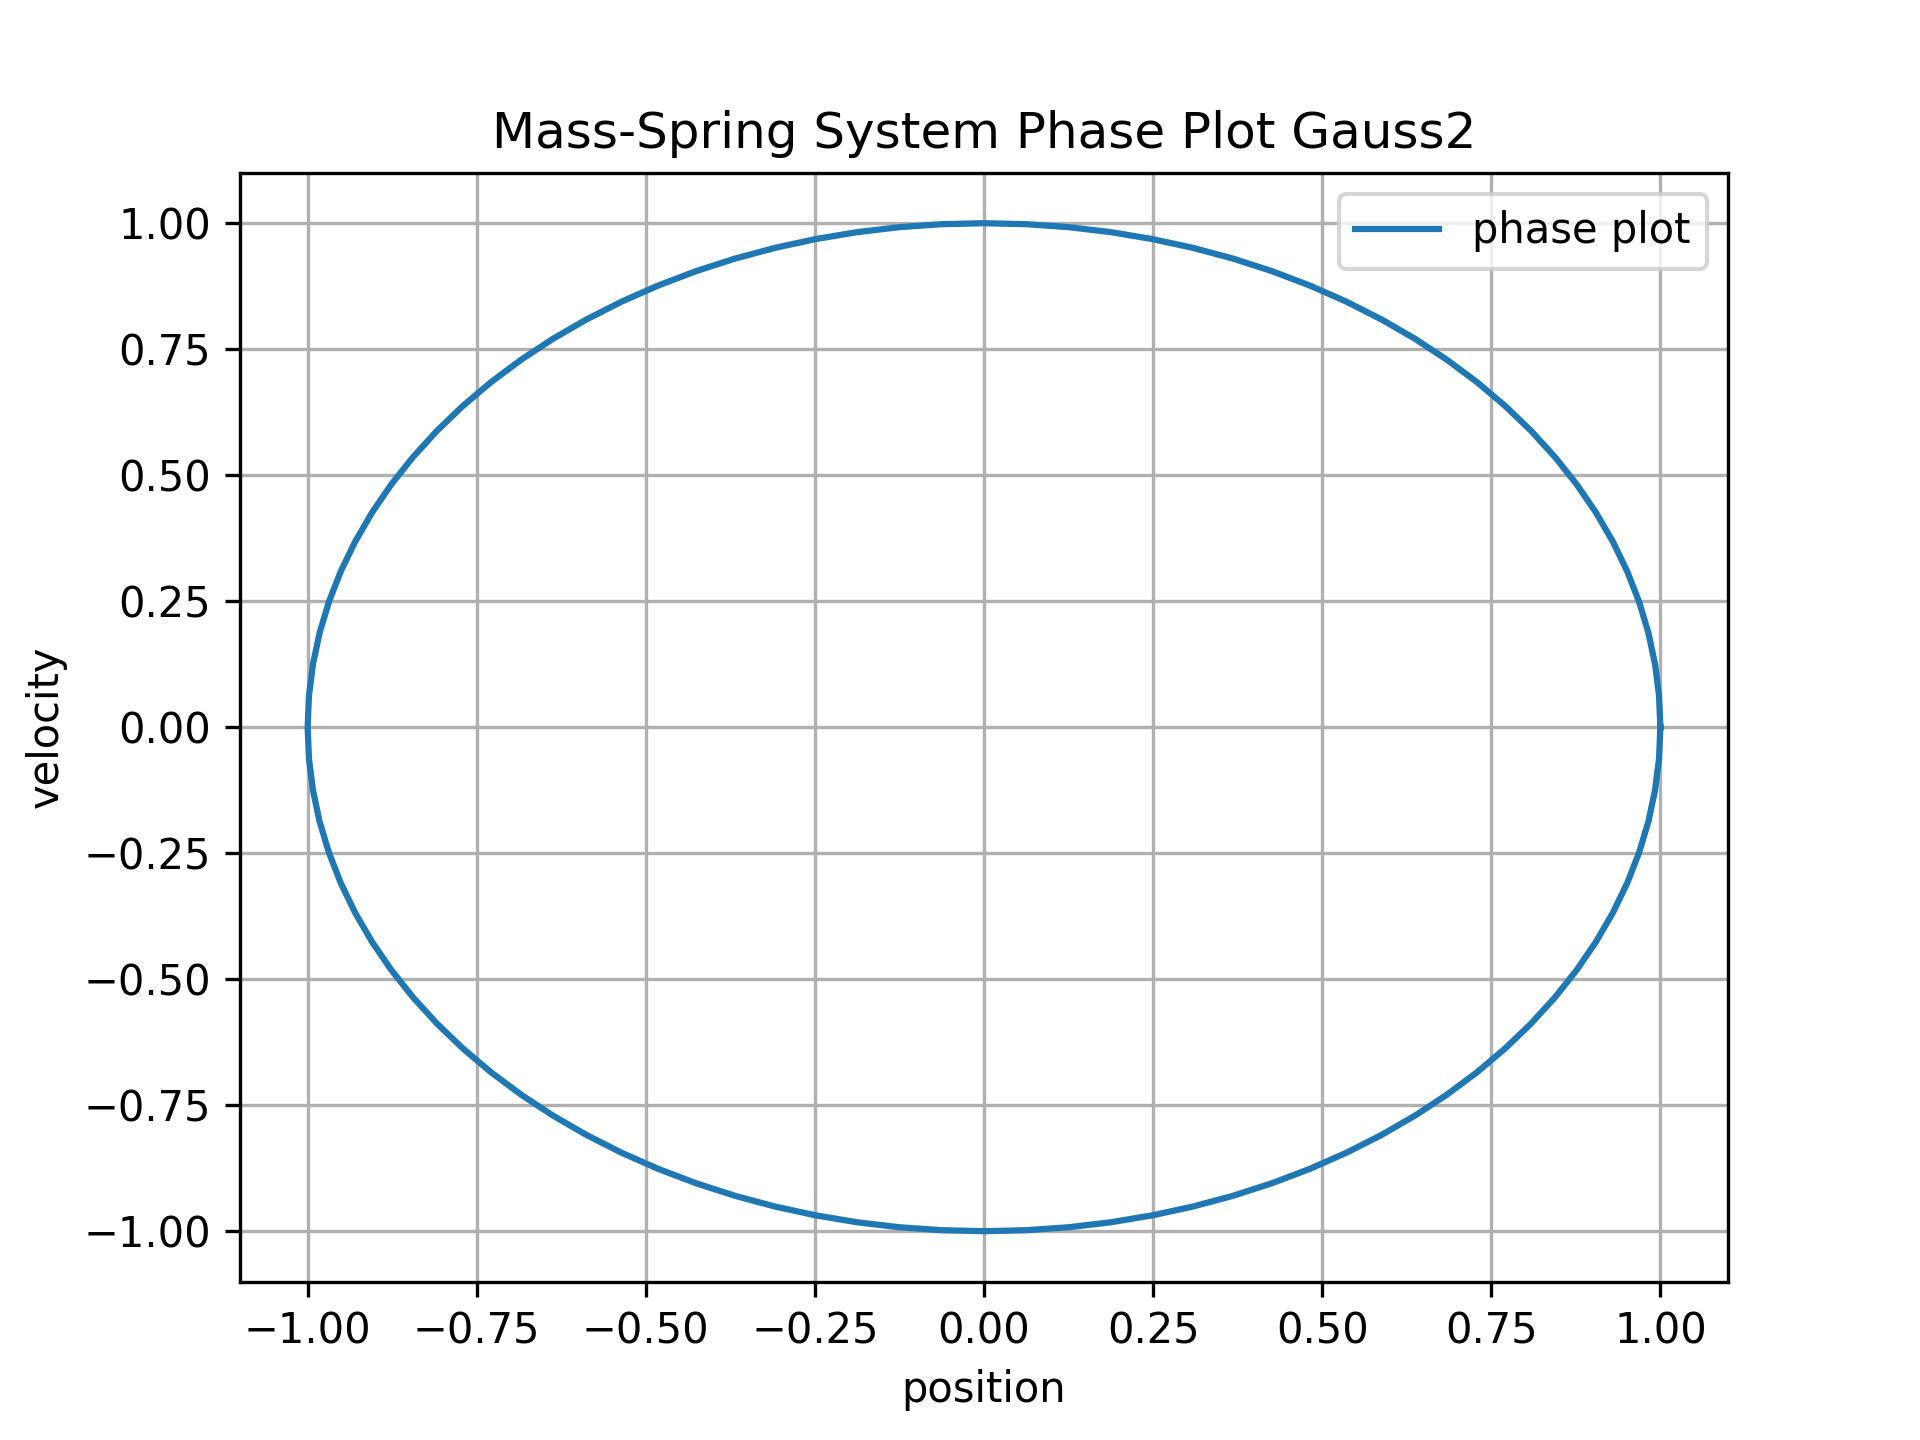
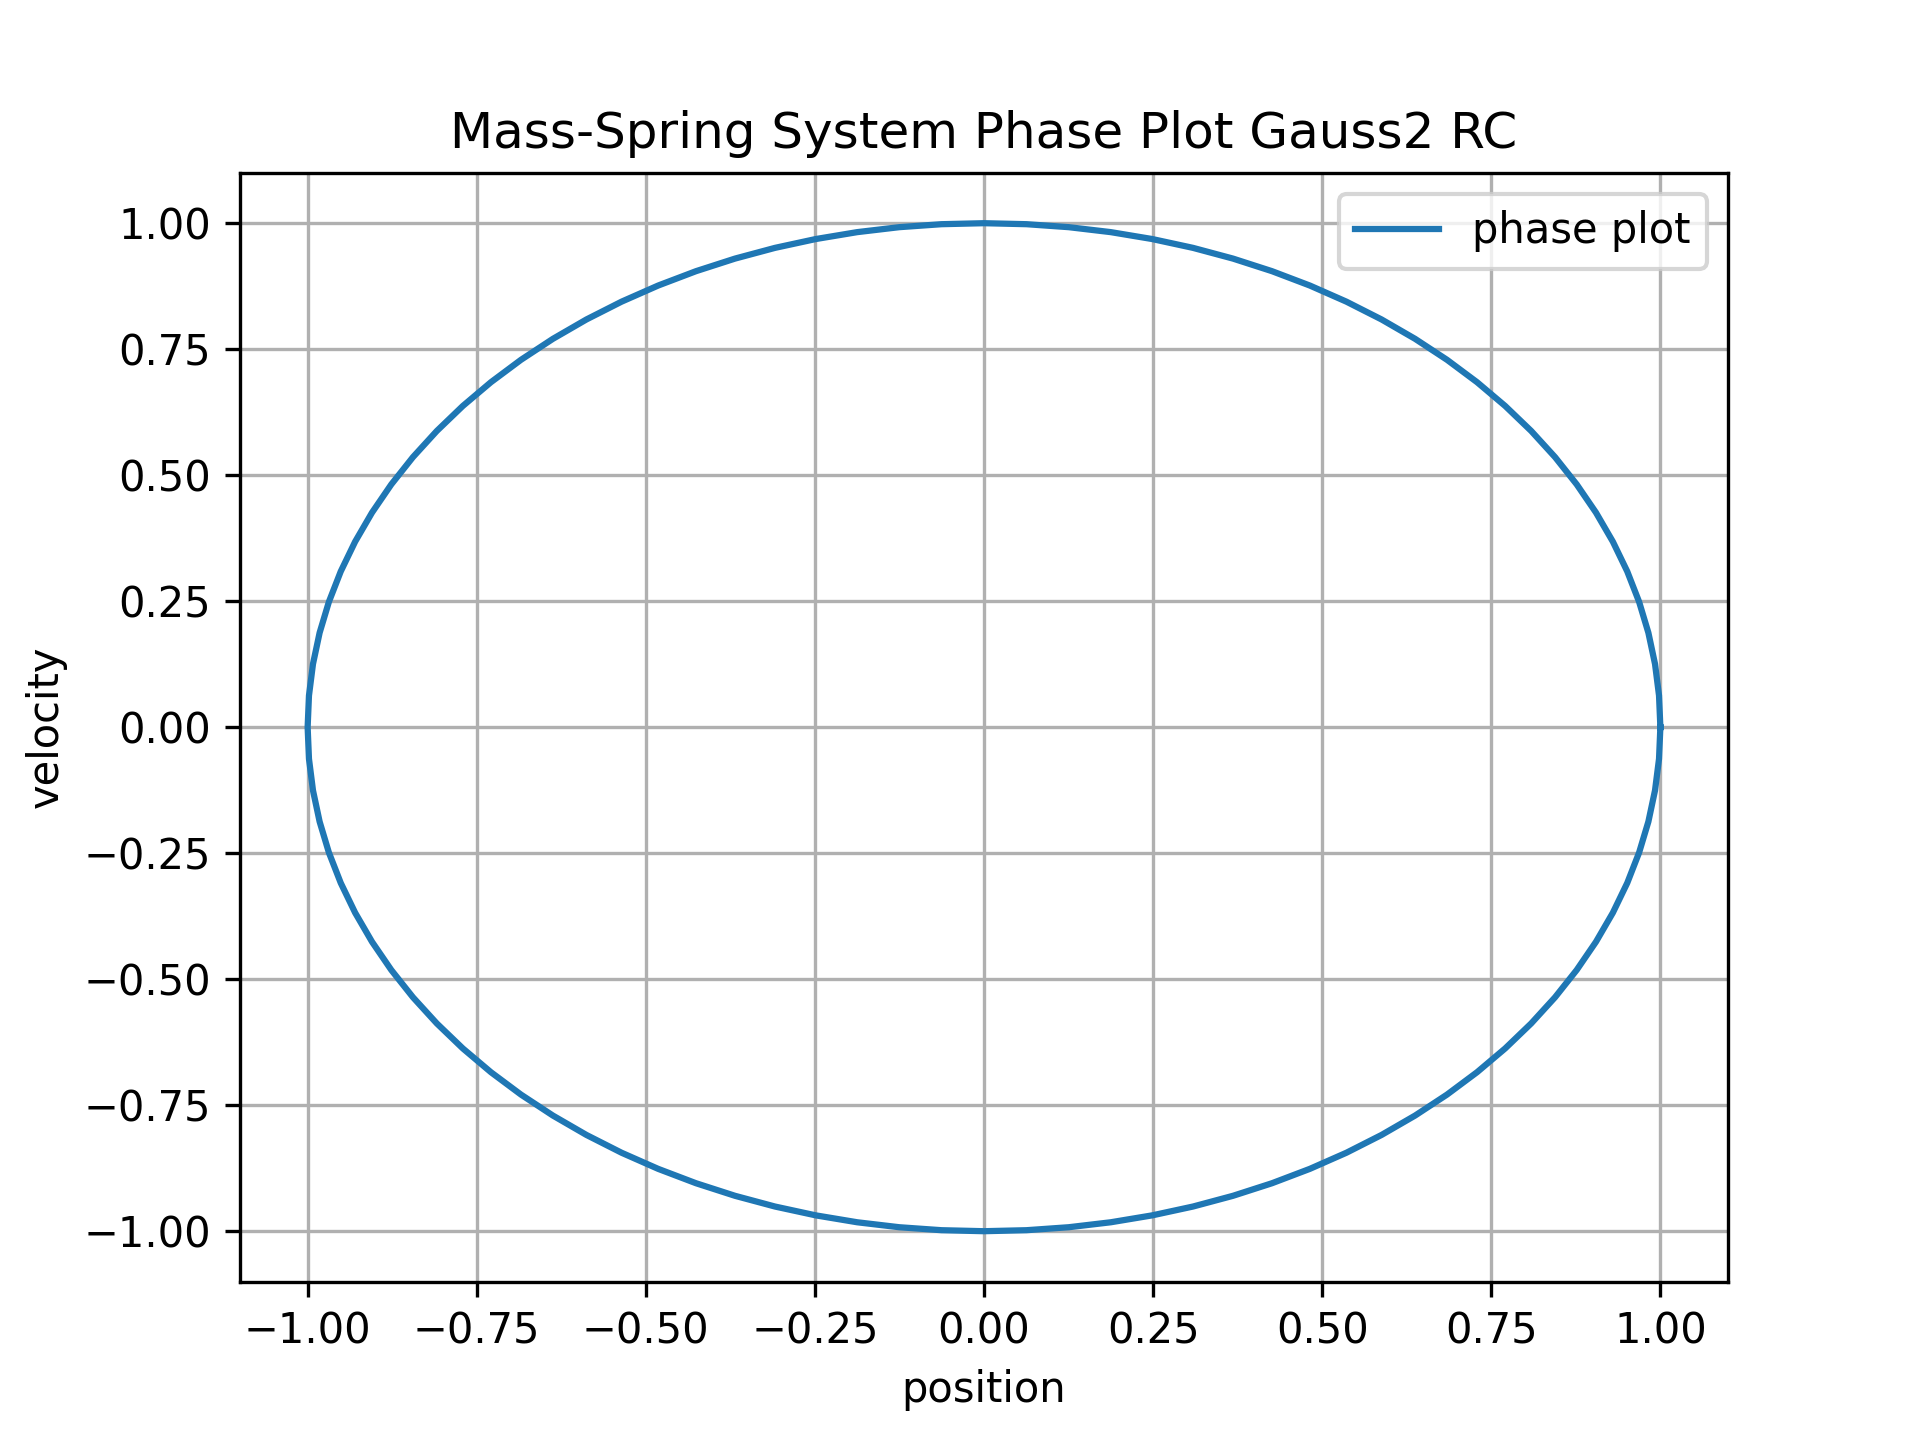
plotting RC on IRK but with wrong input data

Changed region(s): [[0.2188, 0.0625, 0.7812, 0.125]]

diff --git a/demos/irk_results/plot.py b/demos/irk_results/plot.py
@@ -1,21 +1,27 @@
 import numpy as np
 import matplotlib.pyplot as plt
 
+algorithm = "Gauss2"
+system = "RC"
 
-data = np.loadtxt("data.txt", usecols=range(0, 9),   delimiter=",", skiprows=1)
+data = np.loadtxt(
+    "data.txt" if system == "Mass-Spring" else "RC_data.txt",
+    usecols=range(0, 9),
+    delimiter=",",
+    skiprows=1,
+)
 
-algorithm = "Radau3"
-def resolve_algorithm (name: str):
+
+def resolve_algorithm(name: str):
     if name == "Gauss2":
-        return (1,2)
+        return (1, 2)
     if name == "Gauss3":
-        return (3,4)
+        return (3, 4)
     if name == "Radau2":
-        return (5,6)
+        return (5, 6)
     if name == "Radau3":
-        return (7,8)
+        return (7, 8)
     raise ValueError(f"Unknown algorithm name: {name}")
-
 
 
 time_col = 0
@@ -25,7 +31,7 @@ plt.plot(data[:, time_col], data[:, x_col], label="position")
 plt.plot(data[:, time_col], data[:, y_col], label="velocity")
 plt.xlabel("time")
 plt.ylabel("value")
-plt.title(f"Mass-Spring System Time Evolution {algorithm}")
+plt.title(f"Mass-Spring System Time Evolution {algorithm} {system}")
 plt.legend()
 plt.grid()
 plt.savefig(f"Time evolution {algorithm}.png", dpi=300)
@@ -35,7 +41,7 @@ plt.close()
 plt.plot(data[:, 1], data[:, 2], label="phase plot")
 plt.xlabel("position")
 plt.ylabel("velocity")
-plt.title(f"Mass-Spring System Phase Plot {algorithm}")
+plt.title(f"Mass-Spring System Phase Plot {algorithm} {system}")
 plt.legend()
 plt.grid()
 plt.savefig(f"Result {algorithm}.png", dpi=300)
